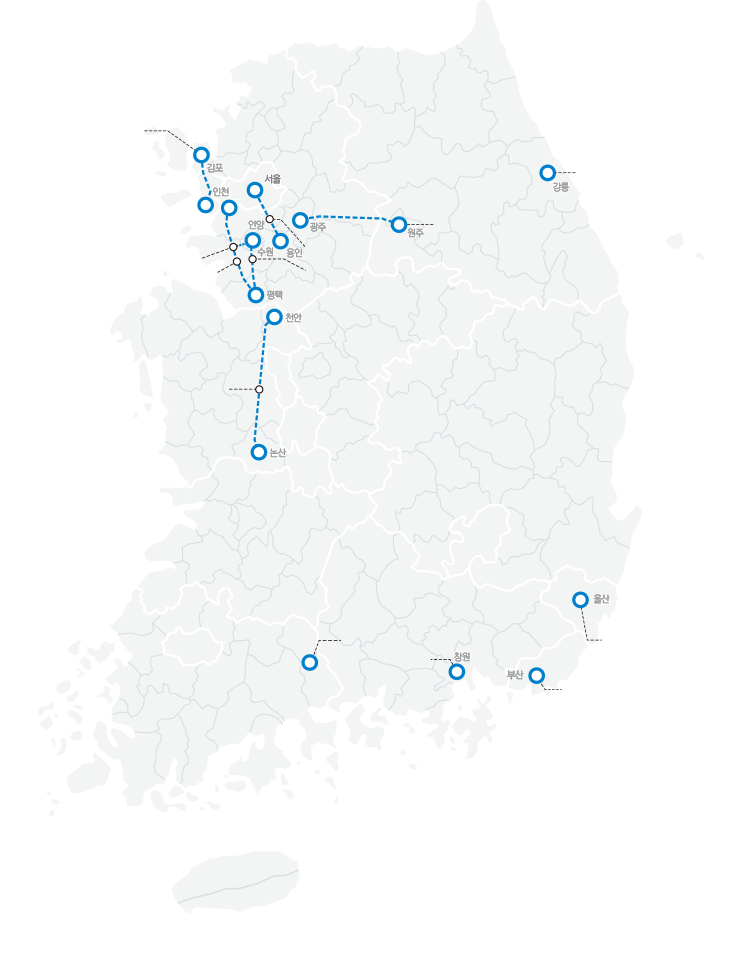
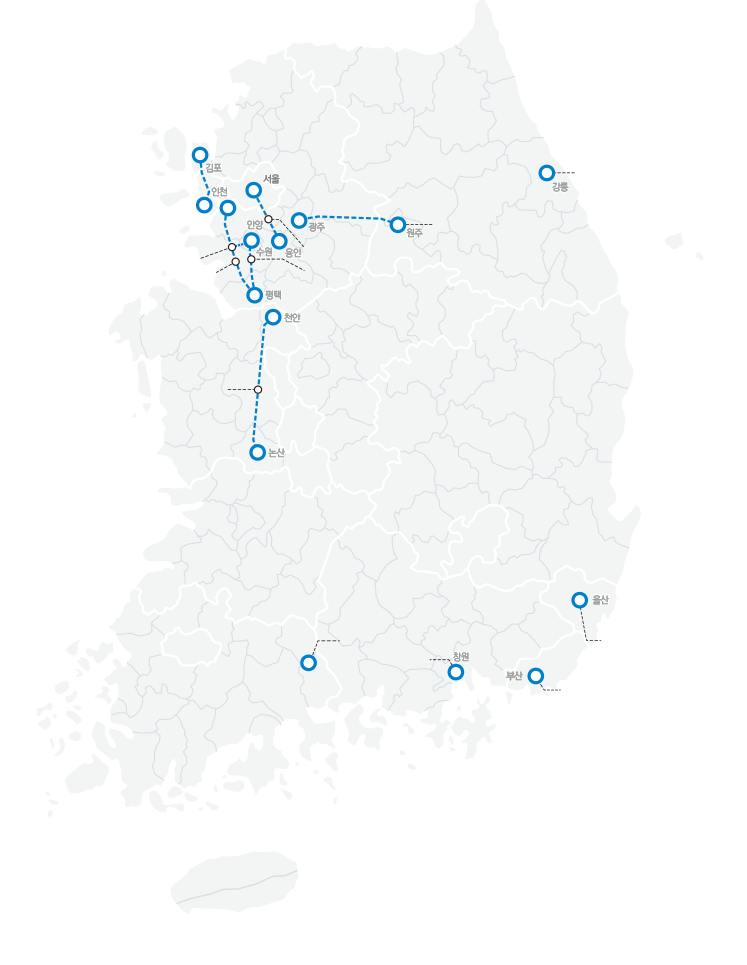
지도수정

diff --git a/src/main/webapp/resource/css/style.css b/src/main/webapp/resource/css/style.css
@@ -287,15 +287,19 @@ filter: progid:DXImageTransform.Microsoft.gradient( startColorstr='#437dab', end
     width: max-content;}
 .po b {font-weight: 500; letter-spacing:-1px; font-size: 13px;}
 .env1 {
-    top: 143px;
+    top: 129px;
     left: 49px;
 }
 .env2 {
-    top: 162px;
+    top: 166px;
     left: 26px;
 }
+.env15 {
+    top: 148px;
+    left: 48px;
+}
 .env2_2 {
-    top: 182px;
+    top: 184px;
     left: 25px;
 }
 .env3 {top: 99px; left: 246px;}
@@ -384,7 +388,7 @@ filter: progid:DXImageTransform.Microsoft.gradient( startColorstr='#437dab', end
     left: 15px;
 }
 .inf_kimpo {
-    top: 123px;
+    top: 103px;
     left: 17px;
 }
 .inf_sansung {
@@ -435,8 +439,8 @@ filter: progid:DXImageTransform.Microsoft.gradient( startColorstr='#437dab', end
     left: 284px;
 }
 .r1 {
-    top: 90px;
-    left: 92px;
+    top: 71px;
+    left: 90px;
 }
 .r2 {top: 128px; left: 103px;}
 .r3 {top: 175px; left: 250px;}
